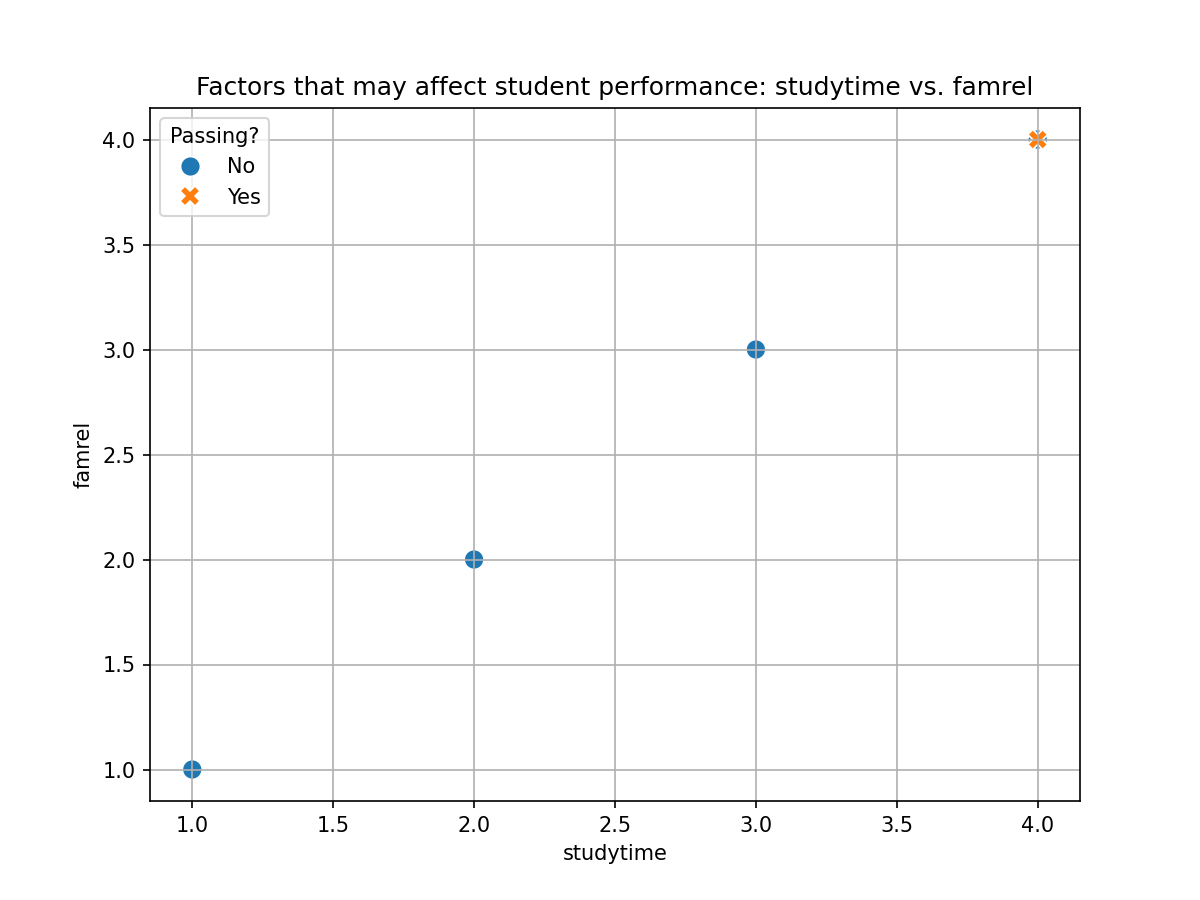
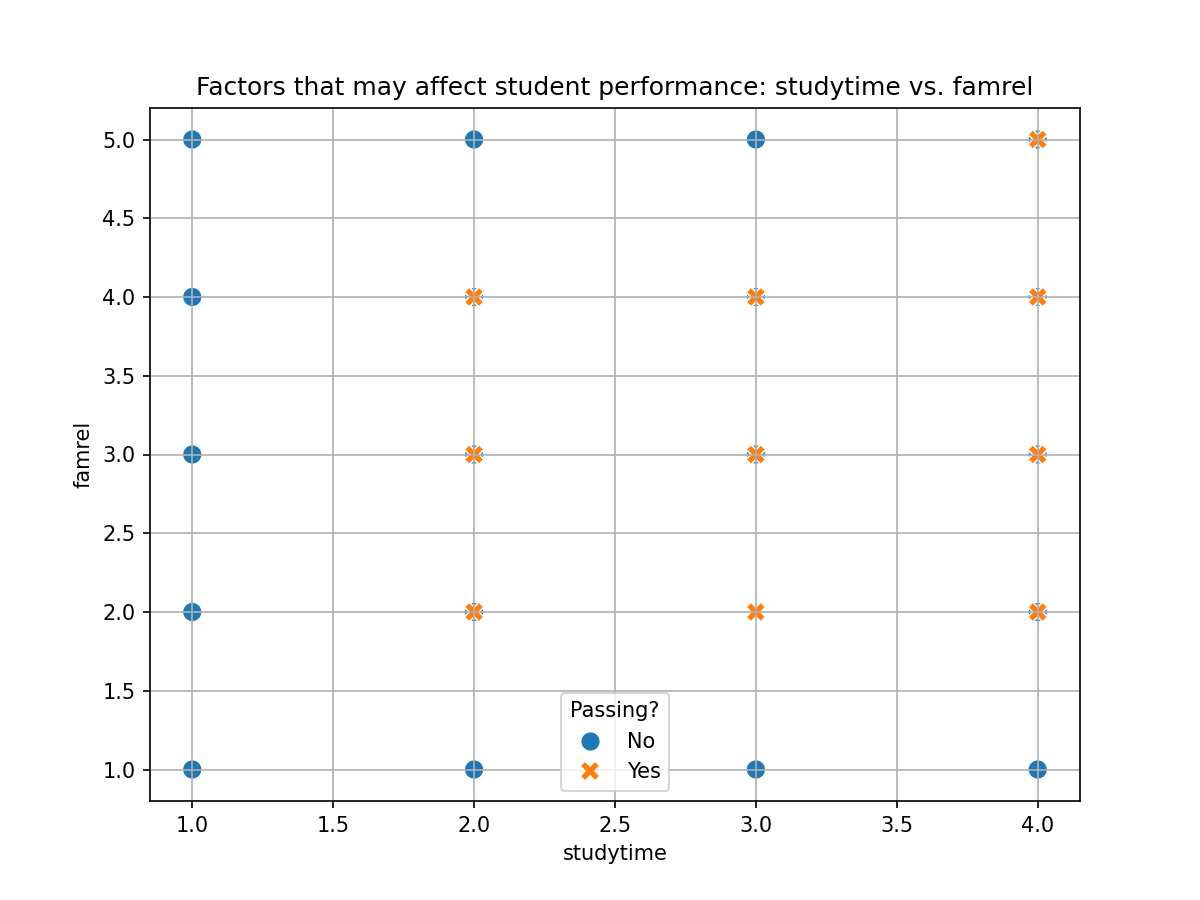
actual plots!!!!!! yay!!!

diff --git a/getting_started/make_initial_plots.py b/getting_started/make_initial_plots.py
@@ -15,7 +15,7 @@ def make_plots(variable_1, variable_2):
     sns.scatterplot(
         data=df,
         x=variable_1,
-        y=variable_1,
+        y=variable_2,
         hue=df["passing?"],
         style=df["passing?"],
         s=90
@@ -27,13 +27,15 @@ def make_plots(variable_1, variable_2):
     plt.legend(title="Passing?")
     plt.grid(True)
 
-    print(df)
-    print(df['passing?'])
+    # print(df)
+    # print(df['passing?'])
 
 #/workspaces/Human-vs-ML-Project/getting_started/plots
     plt.savefig(f"/workspaces/Human-vs-ML-Project/getting_started/plots/{variable_1}vs{variable_2}.png", dpi=150)
     plt.close()
     
 # make_plots('studytime', 'famrel')
+# make_plots('health', 'freetime')
 # make_plots('absences', 'age')
-make_plots('absences', 'famrel')
+
+make_plots('Dalc', 'Walc')
